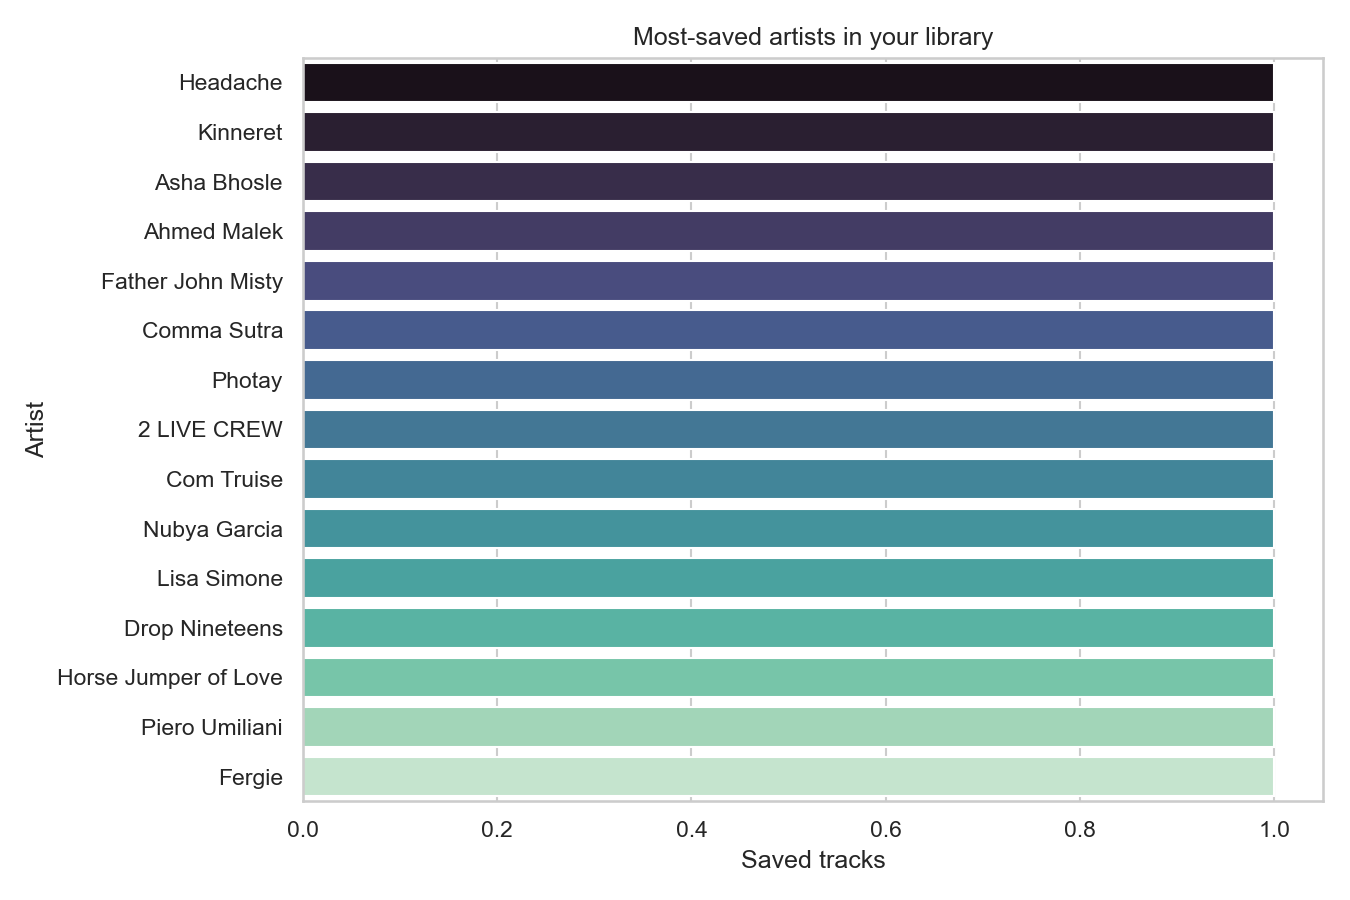
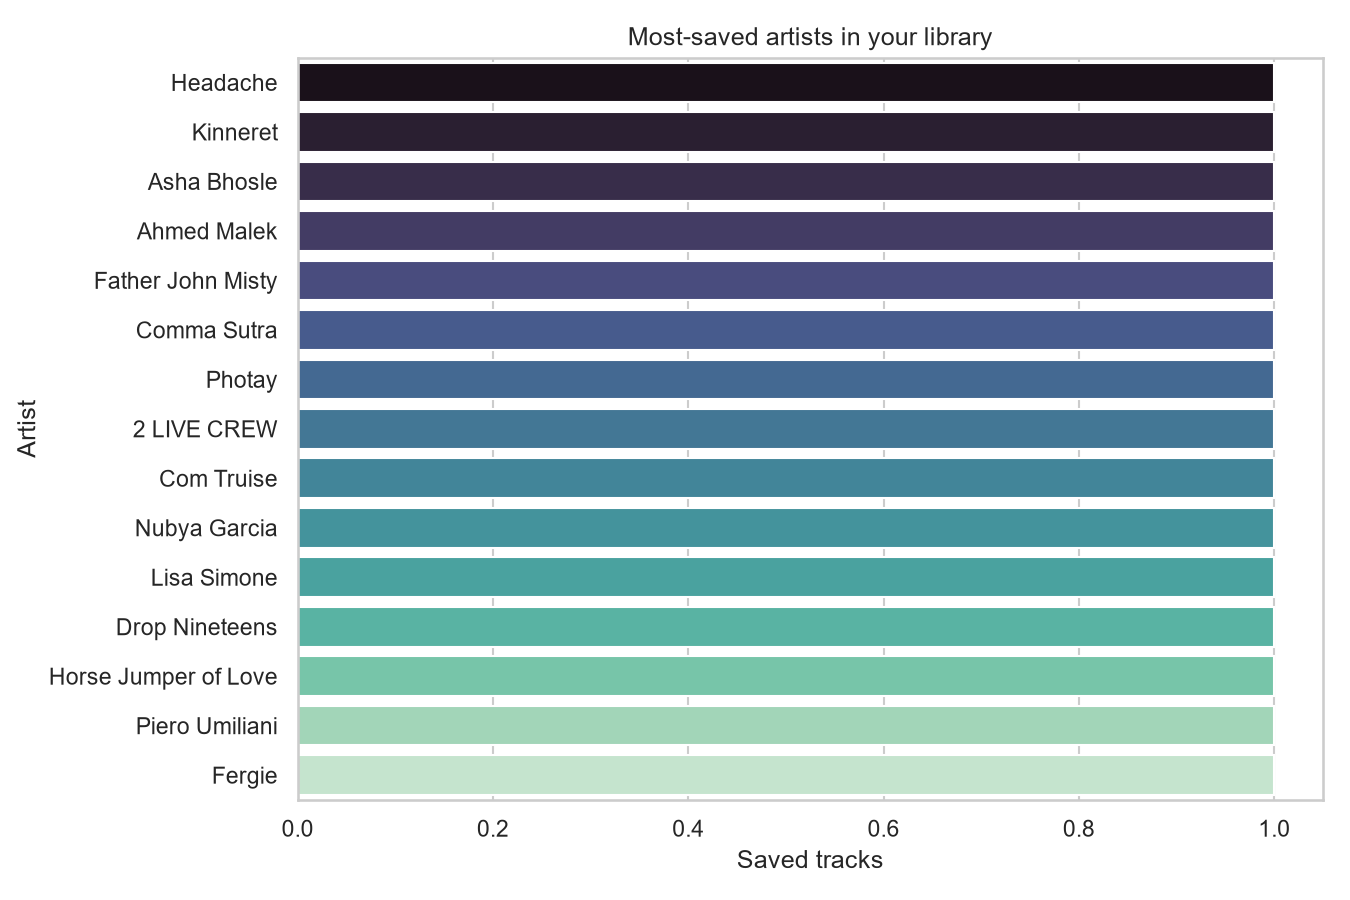
update API keys

diff --git a/src/visualize.py b/src/visualize.py
@@ -3,6 +3,10 @@ Chart functions. Each one builds a figure and saves it to outputs/figures/,
 and also returns the Figure object so app_streamlit.py can render it inline.
 """
 
+import matplotlib
+
+matplotlib.use("Agg")  # headless backend: we only save files, never open windows
+
 import matplotlib.pyplot as plt
 import pandas as pd
 import seaborn as sns
